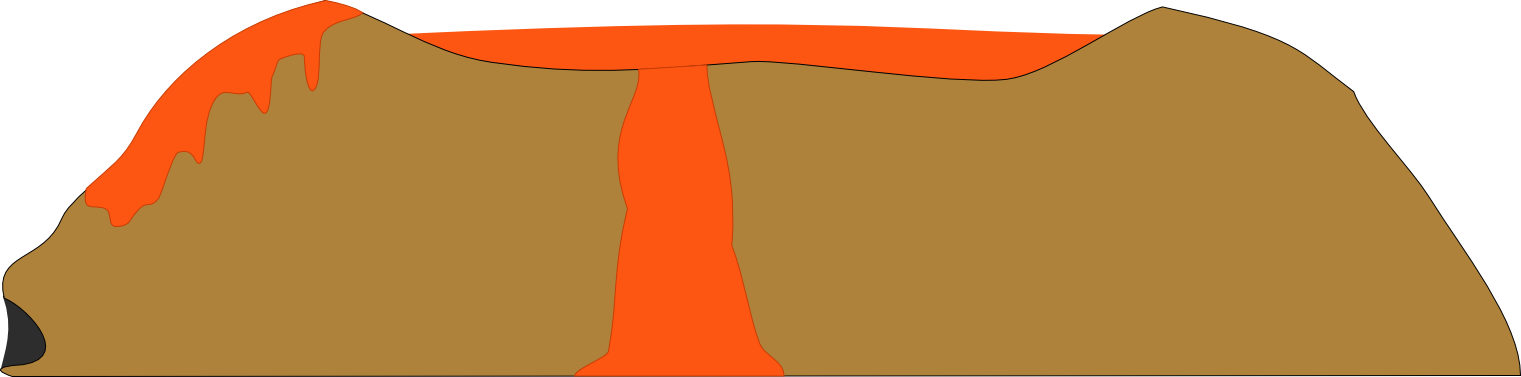
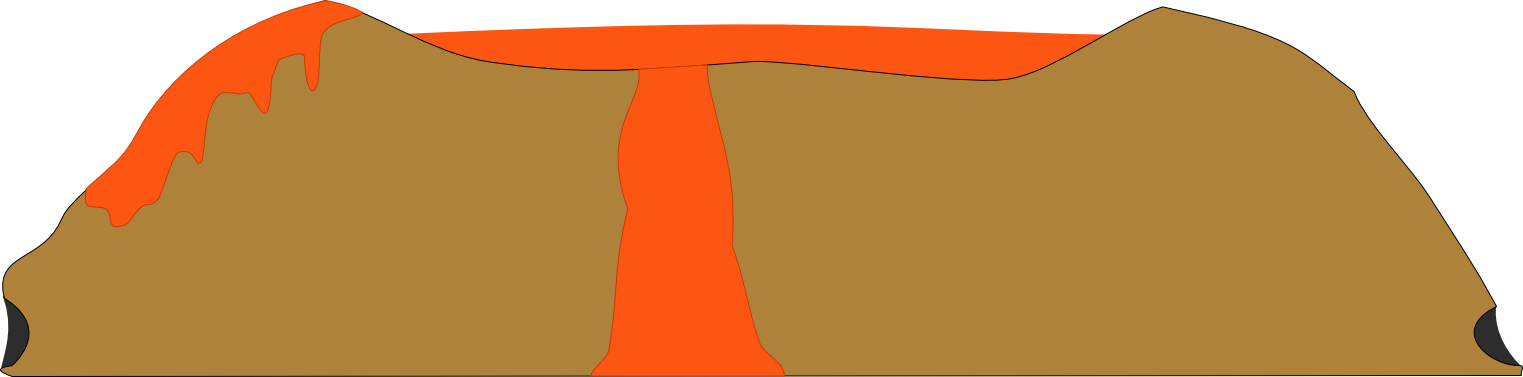
Create a passage way when the dynamite explodes.
Now when dynamite is placed up against the pool of lava in the cavern, it will
light on fire and explode, creating a passage way.

diff --git a/foreverend/sprites/t65000000bc.py b/foreverend/sprites/t65000000bc.py
@@ -5,28 +5,45 @@ from foreverend.sprites.player import Player
 
 
 class Volcano(Sprite):
-    BASE_CAVERN_RECT = pygame.Rect(0, 310, 550, 55)
+    BASE_CAVERN_RECT = pygame.Rect(0, 310, 600, 55)
 
     def __init__(self, name='65000000bc/volcano'):
         super(Volcano, self).__init__(name)
-        self.cavern_rect = self.BASE_CAVERN_RECT
+        self.cavern_rect = self.BASE_CAVERN_RECT.copy()
         self.default_name = name
         self.interior_name = name + '_inside'
+        self.passage_blocked = True
 
-    def on_moved(self):
+        self.moved.connect(self.update_collision_rects)
+
+    def clear_passage(self):
+        self.passage_blocked = False
+        self.interior_name = self.default_name + '_clear'
+        self.update_collision_rects()
+        self.update_image()
+
+    def update_collision_rects(self):
         self.cavern_rect.left = self.rect.left + self.BASE_CAVERN_RECT.left
         self.cavern_rect.top = self.rect.top + self.BASE_CAVERN_RECT.top
-        self.ground_rect = pygame.Rect(self.rect.left, self.cavern_rect.bottom,
-                                       self.rect.width, self.rect.width)
+
         self.collision_rects = [
             pygame.Rect(self.rect.left, self.rect.top, self.rect.width,
                         self.cavern_rect.top - self.rect.top),
-            pygame.Rect(self.cavern_rect.right,
-                        self.cavern_rect.top,
-                        self.rect.width - self.cavern_rect.width,
-                        self.cavern_rect.height),
-            self.ground_rect,
         ]
+
+        if self.passage_blocked:
+            self.collision_rects.append(
+                pygame.Rect(self.cavern_rect.right,
+                            self.cavern_rect.top,
+                            self.rect.width - self.cavern_rect.width,
+                            self.cavern_rect.height))
+        else:
+            self.cavern_rect.width = self.rect.right - \
+                                     self.BASE_CAVERN_RECT.left
+
+        self.ground_rect = pygame.Rect(self.rect.left, self.cavern_rect.bottom,
+                                       self.rect.width, self.rect.width)
+        self.collision_rects.append(self.ground_rect)
 
     def handle_collision(self, obj, matched_rect, dx, dy):
         if (isinstance(obj, Player) and dy > 0 and

diff --git a/foreverend/levels/level1.py b/foreverend/levels/level1.py
@@ -147,12 +147,12 @@ class TimePeriod65000000BC(TimePeriod):
         self.main_layer.add(ground)
         ground.move_to(0, self.level.size[1] - ground.rect.height)
 
-        volcano = Volcano()
-        self.main_layer.add(volcano)
-        volcano.move_to(1400, ground.rect.top - volcano.rect.height)
+        self.volcano = Volcano()
+        self.main_layer.add(self.volcano)
+        self.volcano.move_to(1400, ground.rect.top - self.volcano.rect.height)
 
         # Dynamite explosion trigger
-        explosion_box = EventBox(self, 1948, 1554, 3, 3)
+        explosion_box = EventBox(self, 1990, 1554, 3, 3)
         explosion_box.watch_object_moves(self.level.dynamite)
         explosion_box.object_moved.connect(self.on_dynamite_placed)
 
@@ -164,13 +164,22 @@ class TimePeriod65000000BC(TimePeriod):
         if self.exploding or self.exploded:
             return
 
+        self.level.dynamite.grabbable = False
+        self.exploding = True
+
+        self.detonate_timer = Timer(self.engine, self, 1000,
+                                    self.start_explosion)
+
+    def start_explosion(self):
+        self.detonate_timer.stop()
+        self.detonate_timer = None
+
         self.level.dynamite.hide()
         self.level.dynamite = None
 
         self.explosion = Sprite('big_explosion')
         self.main_layer.add(self.explosion)
-        self.explosion.move_to(1900, 1400)
-        self.exploding = True
+        self.explosion.move_to(1980, 1400)
 
         self.explosion_timer = Timer(self.engine, self, 350,
                                      self.on_explosion_done)
@@ -183,6 +192,7 @@ class TimePeriod65000000BC(TimePeriod):
         self.explosion_timer = None
         self.exploding = False
         self.exploded = True
+        self.volcano.clear_passage()
 
 
 class Level1(Level):

diff --git a/foreverend/sprites/player.py b/foreverend/sprites/player.py
@@ -23,7 +23,7 @@ class TractorBeam(Sprite):
             return
 
         for obj, _, _ in self.get_collisions(ignore_collidable_flag=True):
-            if isinstance(obj, Item):
+            if isinstance(obj, Item) and obj.grabbable:
                 self.grab(obj)
                 return
 

diff --git a/foreverend/sprites/items.py b/foreverend/sprites/items.py
@@ -8,6 +8,7 @@ class Item(Sprite):
     def __init__(self, *args, **kwargs):
         super(Item, self).__init__(obey_gravity=True, *args, **kwargs)
         self.should_check_collisions = True
+        self.grabbable = True
 
 
 class Dynamite(Item):
